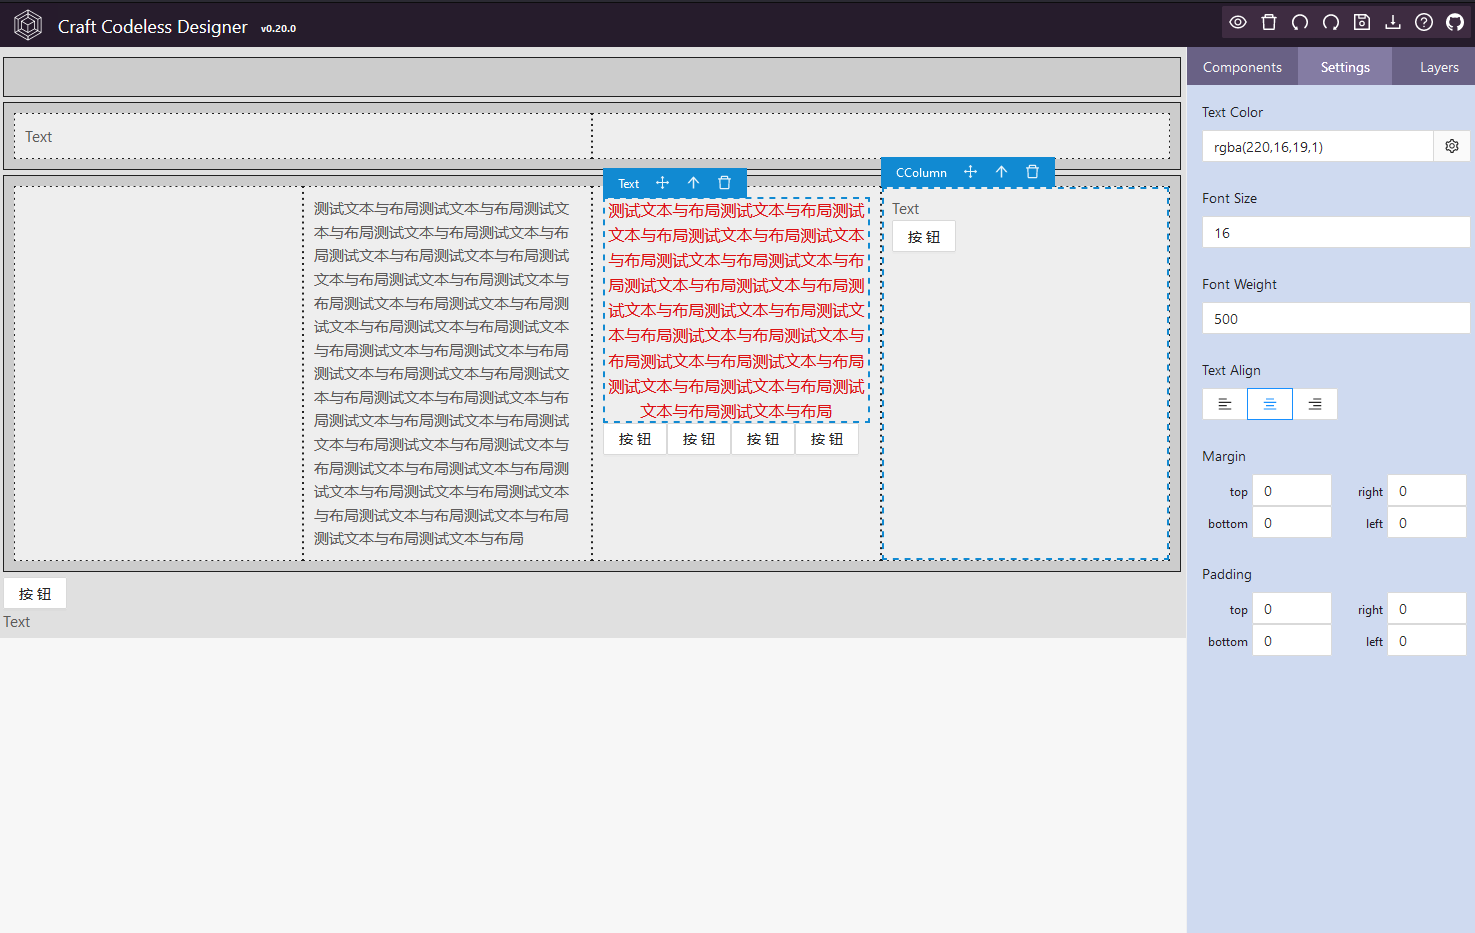
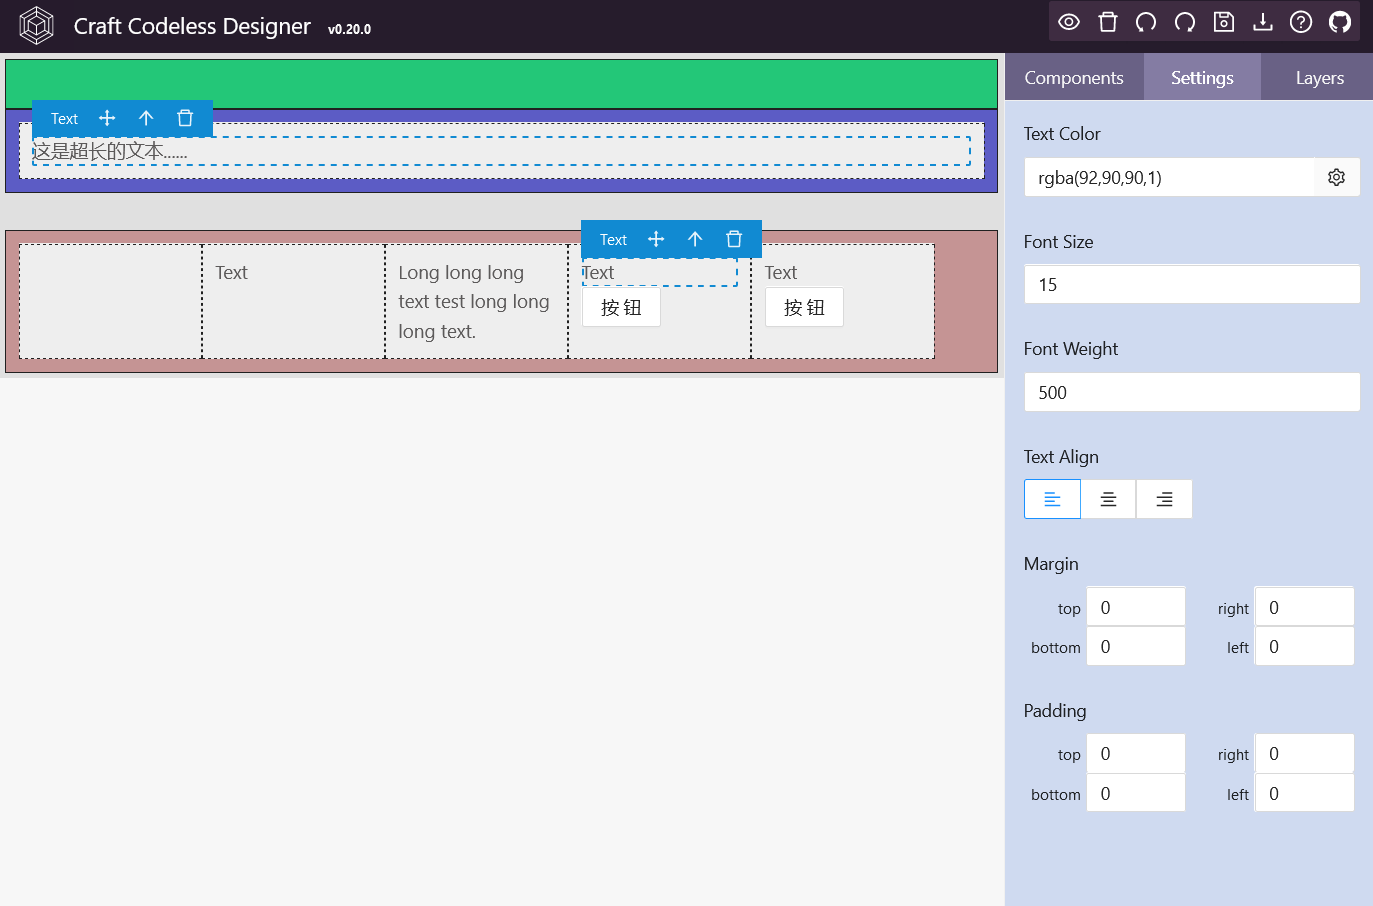
refactor Row, add background-color settings

diff --git a/src/craft-components/layout/crow/CRow.jsx b/src/craft-components/layout/crow/CRow.jsx
@@ -7,9 +7,9 @@ const defaultProps = {
   margin: [0, 0, 0, 0],
   padding: [10, 10, 10, 10],
   border: '1px solid rgb(32, 32, 32)',
-  background: '#ccc',
   minHeight: '40px',
   display: 'flex',
+  bgColor: { r: 92, g: 90, b: 90, a: 1 },
 };
 
 /**
@@ -28,7 +28,7 @@ export const CRow = props => {
     ...props,
   };
 
-  const { margin, padding, border, background, minHeight, display, children } = props;
+  const { margin, padding, border, bgColor, minHeight, display, children } = props;
   const {
     connectors: { connect, drag },
   } = useNode();
@@ -41,9 +41,9 @@ export const CRow = props => {
         margin: `${margin[0]}px ${margin[1]}px ${margin[2]}px ${margin[3]}px`,
         padding: `${padding[0]}px ${padding[1]}px ${padding[2]}px ${padding[3]}px`,
         border,
-        background,
         minHeight,
         display,
+        backgroundColor: `rgba(${Object.values(bgColor)})`,
       }}
     >
       {children}

diff --git a/src/craft-components/layout/crow/CRowSettings.jsx b/src/craft-components/layout/crow/CRowSettings.jsx
@@ -1,5 +1,6 @@
 import { Form } from 'antd';
 import React from 'react';
+import { CColorPicker } from '../../../designer/sider-bar/settings/form-items/CColorPicker';
 import { CMargin } from '../../../designer/sider-bar/settings/form-items/CMargin';
 
 /**
@@ -12,6 +13,9 @@ import { CMargin } from '../../../designer/sider-bar/settings/form-items/CMargin
 export const CRowSettings = props => {
   return (
     <Form layout="vertical">
+      <Form.Item label="Background Color">
+        <CColorPicker {...props} propKey="bgColor"></CColorPicker>
+      </Form.Item>
       <Form.Item label="Margin">
         <CMargin {...props} propKey="margin"></CMargin>
       </Form.Item>
